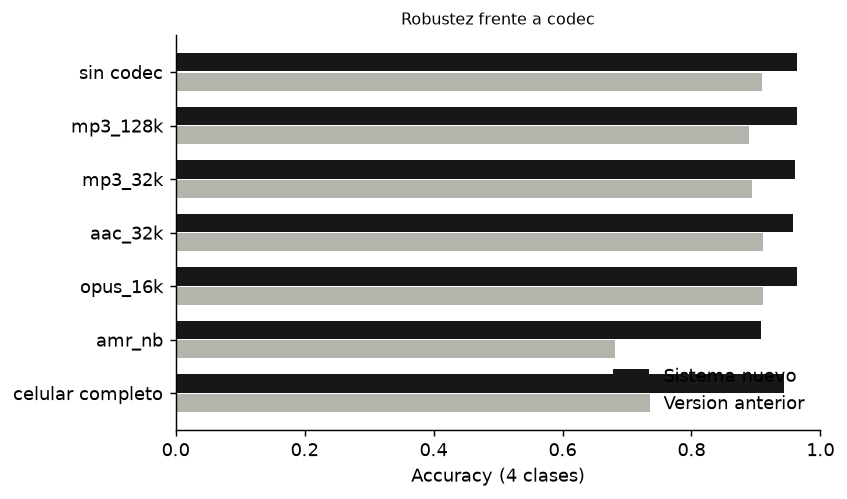
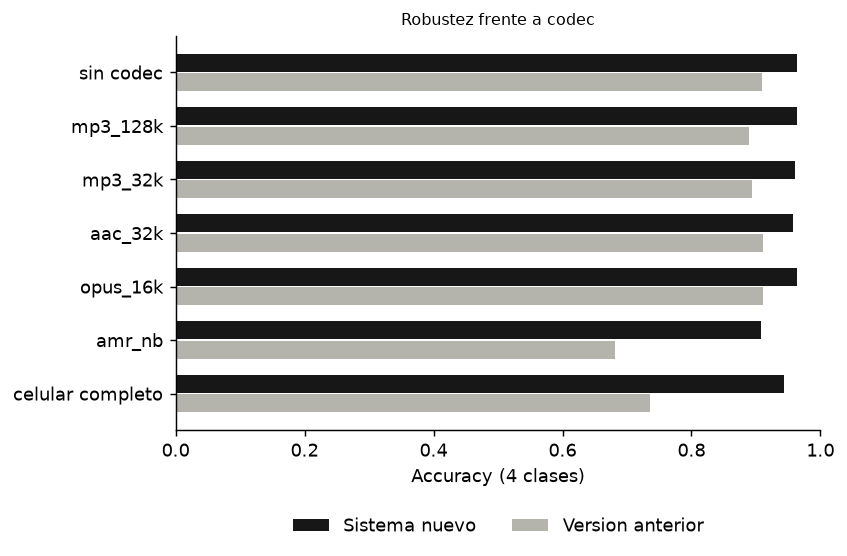
Ajustes de textos en metricas y leyenda de las figuras de robustez

diff --git a/web/app.js b/web/app.js
@@ -896,7 +896,7 @@ async function loadMetrics() {
   if (rob) {
     const table = (blk, head) => `<table class="compact"><thead><tr><th>${head}</th><th class="r">Nuevo</th>${blk.anterior ? '<th class="r">Anterior</th>' : ""}</tr></thead><tbody>
       ${blk.etiquetas.map((e, i) => `<tr><td class="mono">${esc(e)}</td><td class="r num">${pct(blk.nuevo[i])}</td>${blk.anterior ? `<td class="r num">${pct(blk.anterior[i])}</td>` : ""}</tr>`).join("")}</tbody></table>`;
-    html += `<section class="panel"><div class="panel-head"><h2 class="section-heading">Robustez (pliegue de prueba, ${rob.n_por_condicion} recortes por condición)</h2>
+    html += `<section class="panel"><div class="panel-head"><h2 class="section-heading">Robustez (pliegue de prueba, ${rob.n_por_condicion / 4} recortes por clase)</h2>
       <div class="legend-inline"><span class="legend-chip"><span class="swatch" style="background:${INK}"></span>Sistema nuevo</span>
       <span class="legend-chip"><span class="swatch" style="background:${FAINT}"></span>Versión anterior</span></div></div>
       <div class="two-col"><div class="fig"><canvas id="rob-snr" height="200"></canvas><span class="fig-caption">Accuracy de voz y música contra SNR [dB] con ruido del pliegue de prueba</span></div>
@@ -905,7 +905,7 @@ async function loadMetrics() {
   }
   if (rob && rob.segmentacion) {
     const v = rob.segmentacion.variantes;
-    html += `<section class="panel"><div class="panel-head"><h2 class="section-heading">Segmentación: suavizado sobre ${rob.segmentacion.n_secuencias} secuencias sintéticas</h2></div>
+    html += `<section class="panel"><div class="panel-head"><h2 class="section-heading">Segmentación: suavizado sobre ${rob.segmentacion.n_secuencias} secuencias de audio continuo del pliegue de prueba</h2></div>
       <div class="table-scroll"><table><thead><tr><th>Variante</th><th class="r">Acierto por celda</th><th class="r">Segmentos predichos / reales</th><th class="r">Error de borde (mediana)</th><th class="r">Error de borde (media)</th></tr></thead><tbody>
       ${Object.entries(v).map(([k, r]) => `<tr><td class="mono">${esc(k)}</td><td class="r num">${pct(r.accuracy_celdas)}</td>
       <td class="r num">${r.segmentos_predichos} / ${r.segmentos_reales}</td><td class="r num">${fmt(r.error_borde_mediana_s, 2)} s</td><td class="r num">${fmt(r.error_borde_medio_s, 2)} s</td></tr>`).join("")}

diff --git a/scripts/eval_robustness.py b/scripts/eval_robustness.py
@@ -244,7 +244,7 @@ def plot(out: dict) -> None:
         ax.set_xlim(0, 1)
         ax.set_xlabel("Accuracy (4 clases)")
         ax.set_title(f"Robustez frente a {title}", fontsize=9)
-        ax.legend(frameon=False, loc="lower right")
+        ax.legend(frameon=False, loc="upper center", bbox_to_anchor=(0.5, -0.18), ncol=2)
         for s in ("top", "right"):
             ax.spines[s].set_visible(False)
         fig.savefig(FIGURES_DIR / f"robustez_{key}.png", dpi=130, bbox_inches="tight")
